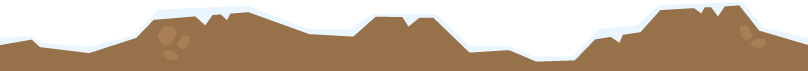
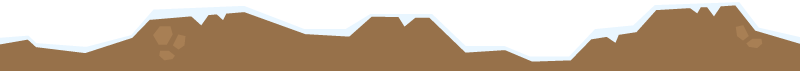
Fix ground loop

diff --git a/src/playGame.js b/src/playGame.js
@@ -10,7 +10,7 @@ class playGame extends Phaser.Scene{
 		this.firstStart = true;
 		this.matter.world.pause();
 		this.pointedRocks = [];
-		this.gameSpeed = 2;
+		this.gameSpeed = 120;
 
 		this.planesJson = this.cache.json.get('planes');
 		this.rocksJson = this.cache.json.get('rocks');
@@ -124,7 +124,7 @@ class playGame extends Phaser.Scene{
 	}
 
 	increaseGameSpeed(){
-		this.gameSpeed += 0.2;
+		this.gameSpeed += 10;
 	}
 
 	generateBackground(){
@@ -159,10 +159,14 @@ class playGame extends Phaser.Scene{
 		this.groundPool = [];
 
 		for(var i=0; i<3; i++){
-			var ground = this.add.image(gameOptions.width/2+(i*808),444,"grounddirt");
+			var ground = this.add.image(gameOptions.width/2+(i*800),444,"grounddirt");	
+			
+			ground.order = i;
 			ground.alpha = 0.5;
 			this.groundPool.push(ground);
 		}
+
+		//this.groundPool.pop();
 	}
 
 	generatePlane(){
@@ -194,27 +198,24 @@ class playGame extends Phaser.Scene{
 
 				lastLoc = 0;
 			}
+			rock.passed = false;
 			this.rocksPool.push(rock);
 		}
 	}
 
-	backgroundLoop(){
+	backgroundLoop(delta){
 		this.backgroundPool.forEach(function(background){
-			background.x -= this.gameSpeed/5;
+			background.x -= (this.gameSpeed*delta/1000)/5;
 			if(background.x < -gameOptions.width){
-				this.backgroundPool = this.backgroundPool.slice(1, this.backgroundPool.length);
-
-				var lastBackgroundLocation = this.backgroundPool[this.backgroundPool.length-1].x;
+				var lastBackgroundLocation = Math.max.apply(Math, this.backgroundPool.map(function(o) { return o.x; }));
 				background.x = lastBackgroundLocation+800;
-
-				this.backgroundPool.push(background);
 			}
 		}.bind(this));
 	}
 
-	cloudLoop(){
+	cloudLoop(delta){
 		this.cloudPool.forEach(function(cloud){
-			cloud.x -= this.gameSpeed/4;
+			cloud.x -= (this.gameSpeed*delta/1000)/4;
 			if(cloud.x < -30){
 				var isLarge = Math.round(Math.random());
 				var xLocation = (Math.random()*750)+25;
@@ -227,43 +228,36 @@ class playGame extends Phaser.Scene{
 		}.bind(this));
 	}
 
-	groundLoop(){
+	groundLoop(delta){
 		this.groundPool.forEach(function(ground){
-			//There is a bug, it should be based on gamespeed
-			ground.x -= 1; //this.gameSpeed/2;
+			ground.x -= (this.gameSpeed*delta/1000)/2;
 			if(ground.x < -gameOptions.width/2){
-				this.groundPool = this.groundPool.slice(1, this.groundPool.length);
-
-				var lastGroundLocation = this.groundPool[this.groundPool.length-1].x;
-				ground.x = lastGroundLocation+807;
-				this.groundPool.push(ground);
+				var lastGroundLocation = Math.max.apply(Math, this.groundPool.map(function(o) { return o.x; }));
+				ground.x = lastGroundLocation+800;
+				if(ground.order == 0){
+					ground.x -= (this.gameSpeed*delta/1000)/2;
+				}
 			}
 		}.bind(this));
 	}
 
-	rocksLoop(){
+	rocksLoop(delta){
 		this.rocksPool.forEach(function(rock){
-			rock.x -= this.gameSpeed;
+			rock.x -= (this.gameSpeed*delta/1000);
 
-			if(rock.x < 200 && !this.pointedRocks.includes(rock.body.id)){
+			if(rock.x < 150 && !rock.passed){
 				this.points++;
 				this.pointText.text = this.points.toString();
-				this.pointedRocks.push(rock.body.id);
 				this.point.play();
-				console.log(rock.x);
-				console.log(rock.body.id);
-				console.log(this.pointedRocks);
-			}
-
-			if(rock.x < -108){
+				rock.passed = true;
+			}else if(rock.x < -108){
 				this.rocksPool = this.rocksPool.slice(1, this.rocksPool.length);
 
 				var space = (Math.random()*130)+130;
 				var lastRockLocation = this.rocksPool[this.rocksPool.length-1].x;
 				rock.x = lastRockLocation+space;
 
-				var index = this.pointedRocks.indexOf(rock.id);
-				this.pointedRocks.splice(index, 1);
+				rock.passed = false;
 				this.rocksPool.push(rock);
 			}
 		}.bind(this));
@@ -350,10 +344,10 @@ class playGame extends Phaser.Scene{
 	update(time, delta){
 		if(this.isRunning){
 			this.handlePlaneRotation();
-			this.backgroundLoop();
-			this.cloudLoop();
-			this.groundLoop();
-			this.rocksLoop();
+			this.backgroundLoop(delta);
+			this.cloudLoop(delta);
+			this.groundLoop(delta);
+			this.rocksLoop(delta);
 		}
 	}
 

diff --git a/src/mainMenu.js b/src/mainMenu.js
@@ -7,8 +7,6 @@ class mainMenu extends Phaser.Scene{
 	create(){
 		this.swooshing = this.sound.add("swooshing");
 		this.mainMusic = this.sound.add("main");
-		this.mainMusic.setLoop(false);
-		this.mainMusic.stop();
 		this.mainMusic.play();
 		this.mainMusic.setLoop(true);
 		
@@ -52,6 +50,8 @@ class mainMenu extends Phaser.Scene{
 		this.playBtn.setInteractive();
 		this.playBtn.on("pointerup", () => {
 			this.swooshing.play();
+			this.mainMusic.setLoop(false);
+			this.mainMusic.stop();
 			this.scene.start("PlayGame");
 		});
 

diff --git a/src/bootGame.js b/src/bootGame.js
@@ -57,7 +57,7 @@ class bootGame extends Phaser.Scene{
 	}
 
 	create(){
-		this.scene.start("PlayGame");
+		this.scene.start("MainMenu");
 	}
 
 }
